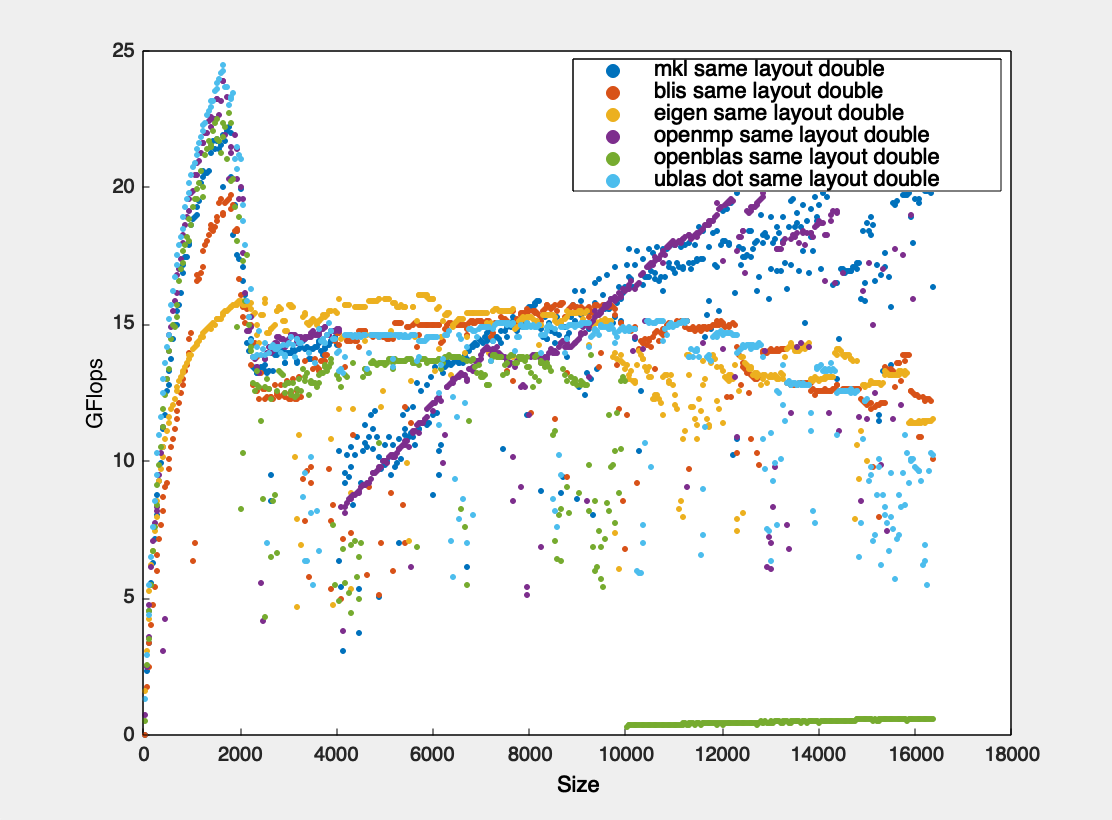
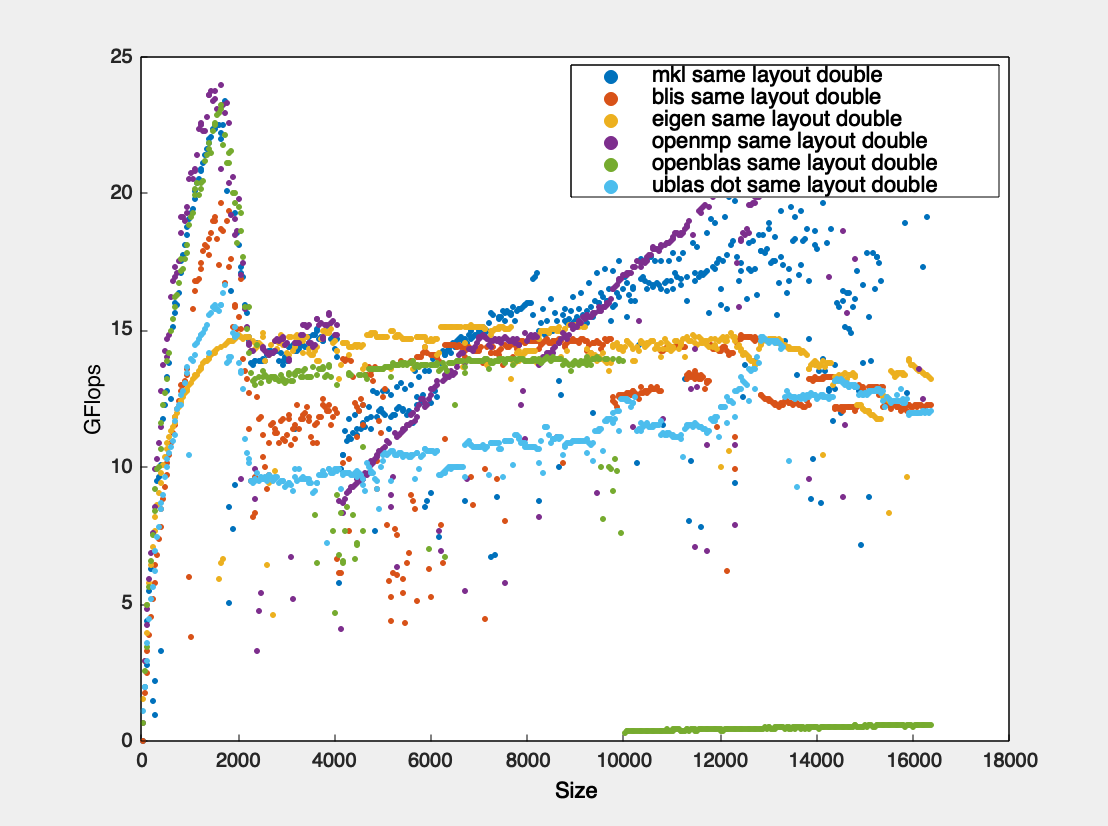
update assets

diff --git a/src/dot.cpp b/src/dot.cpp
@@ -525,16 +525,18 @@ int eigen_dot_diff_layout(std::vector<double> const& x, amt::metric<ValueType>& 
 // #define ENABLE_TEST
 // #define DIFFERENT_LAYOUT
 // #define DISABLE_PLOT
-#define SPEEDUP_PLOT
+// #define SPEEDUP_PLOT
+#define PLOT_ALL
 
 int main(){
     // using value_type = float;
     using value_type = double;
     amt::OpenBlasFnLoader::init();
     std::vector<double> x;
-    [[maybe_unused]]constexpr double max_value = 16382;
-    // [[maybe_unused]]constexpr double max_value = (1u<<20);
-    amt::range(x, 32., max_value, 32., std::plus<>{});
+    // [[maybe_unused]]constexpr double max_value = 16382;
+    // amt::range(x, 32., max_value, 32., std::plus<>{});
+    [[maybe_unused]]constexpr double max_value = (1u<<20);
+    amt::range(x, 2., max_value, 1024., std::plus<>{});
     // amt::range(x, 2., max_value, 2., std::multiplies<>{});
     
 #ifndef ENABLE_TEST
@@ -543,7 +545,7 @@ int main(){
     auto m = amt::metric<value_type>(x.size());
     // exit(0);
     #ifndef DIFFERENT_LAYOUT
-        res += ref_same_layout<value_type>(x,m);
+        // res += ref_same_layout<value_type>(x,m);
         res += ublas_dot_same_layout<value_type>(x,m);
         res += openblas_same_layout<value_type>(x,m);
         // res += static_tensor_same_layout<2ul, max_size, value_type>(m);
@@ -561,13 +563,15 @@ int main(){
 
     #endif
 
-    std::cout<<m.str("openblas")<<'\n';
+    std::cout<<m.str("openmp")<<'\n';
     #ifndef DISABLE_PLOT
-        #ifndef SPEEDUP_PLOT
+        #if !defined(SPEEDUP_PLOT) || defined(PLOT_ALL)
             m.plot(x);
-        #else
-            // m.plot_speedup(x);
-            m.plot_speedup("openblas",x);
+        #endif
+        
+        #if defined(SPEEDUP_PLOT) || defined(PLOT_ALL)
+            m.plot_speedup("openmp",x);
+            m.plot_speedup_per("openmp");
         #endif
     #endif
     

diff --git a/include/metric.hpp b/include/metric.hpp
@@ -101,9 +101,7 @@ namespace amt{
             plt::xlabel(xlabel);
             plt::ylabel(ylabel);
             for(auto&& [k,v] : m_data){
-                moving_average(v.plot);
-                auto l = plt::plot(x_coord, v.plot);
-                l->line_width(2);
+                auto l = plt::scatter(x_coord, v.plot, 2);
                 l->display_name(norm(k));
                 l->marker_face(true);
                 plt::hold(plt::on);
@@ -146,7 +144,7 @@ namespace amt{
 
             plt::xlabel(xlabel);
             plt::ylabel(ylabel);
-            plt::ylim({0.,3.});
+            plt::ylim({0.,10.});
             for(auto&& [k,v] : m_data){
                 if(std::addressof(v) == pref) continue;
                 std::vector<double> speed(m_total);
@@ -198,7 +196,7 @@ namespace amt{
 
             plt::xlabel(xlabel);
             plt::ylabel(ylabel);
-            plt::ylim({0.,3.});
+            plt::ylim({0.,10.});
             double size = static_cast<double>(m_total) / 100.;
             std::vector<double> x_coord(100ul);
             std::iota(x_coord.begin(), x_coord.end(), 1.);
